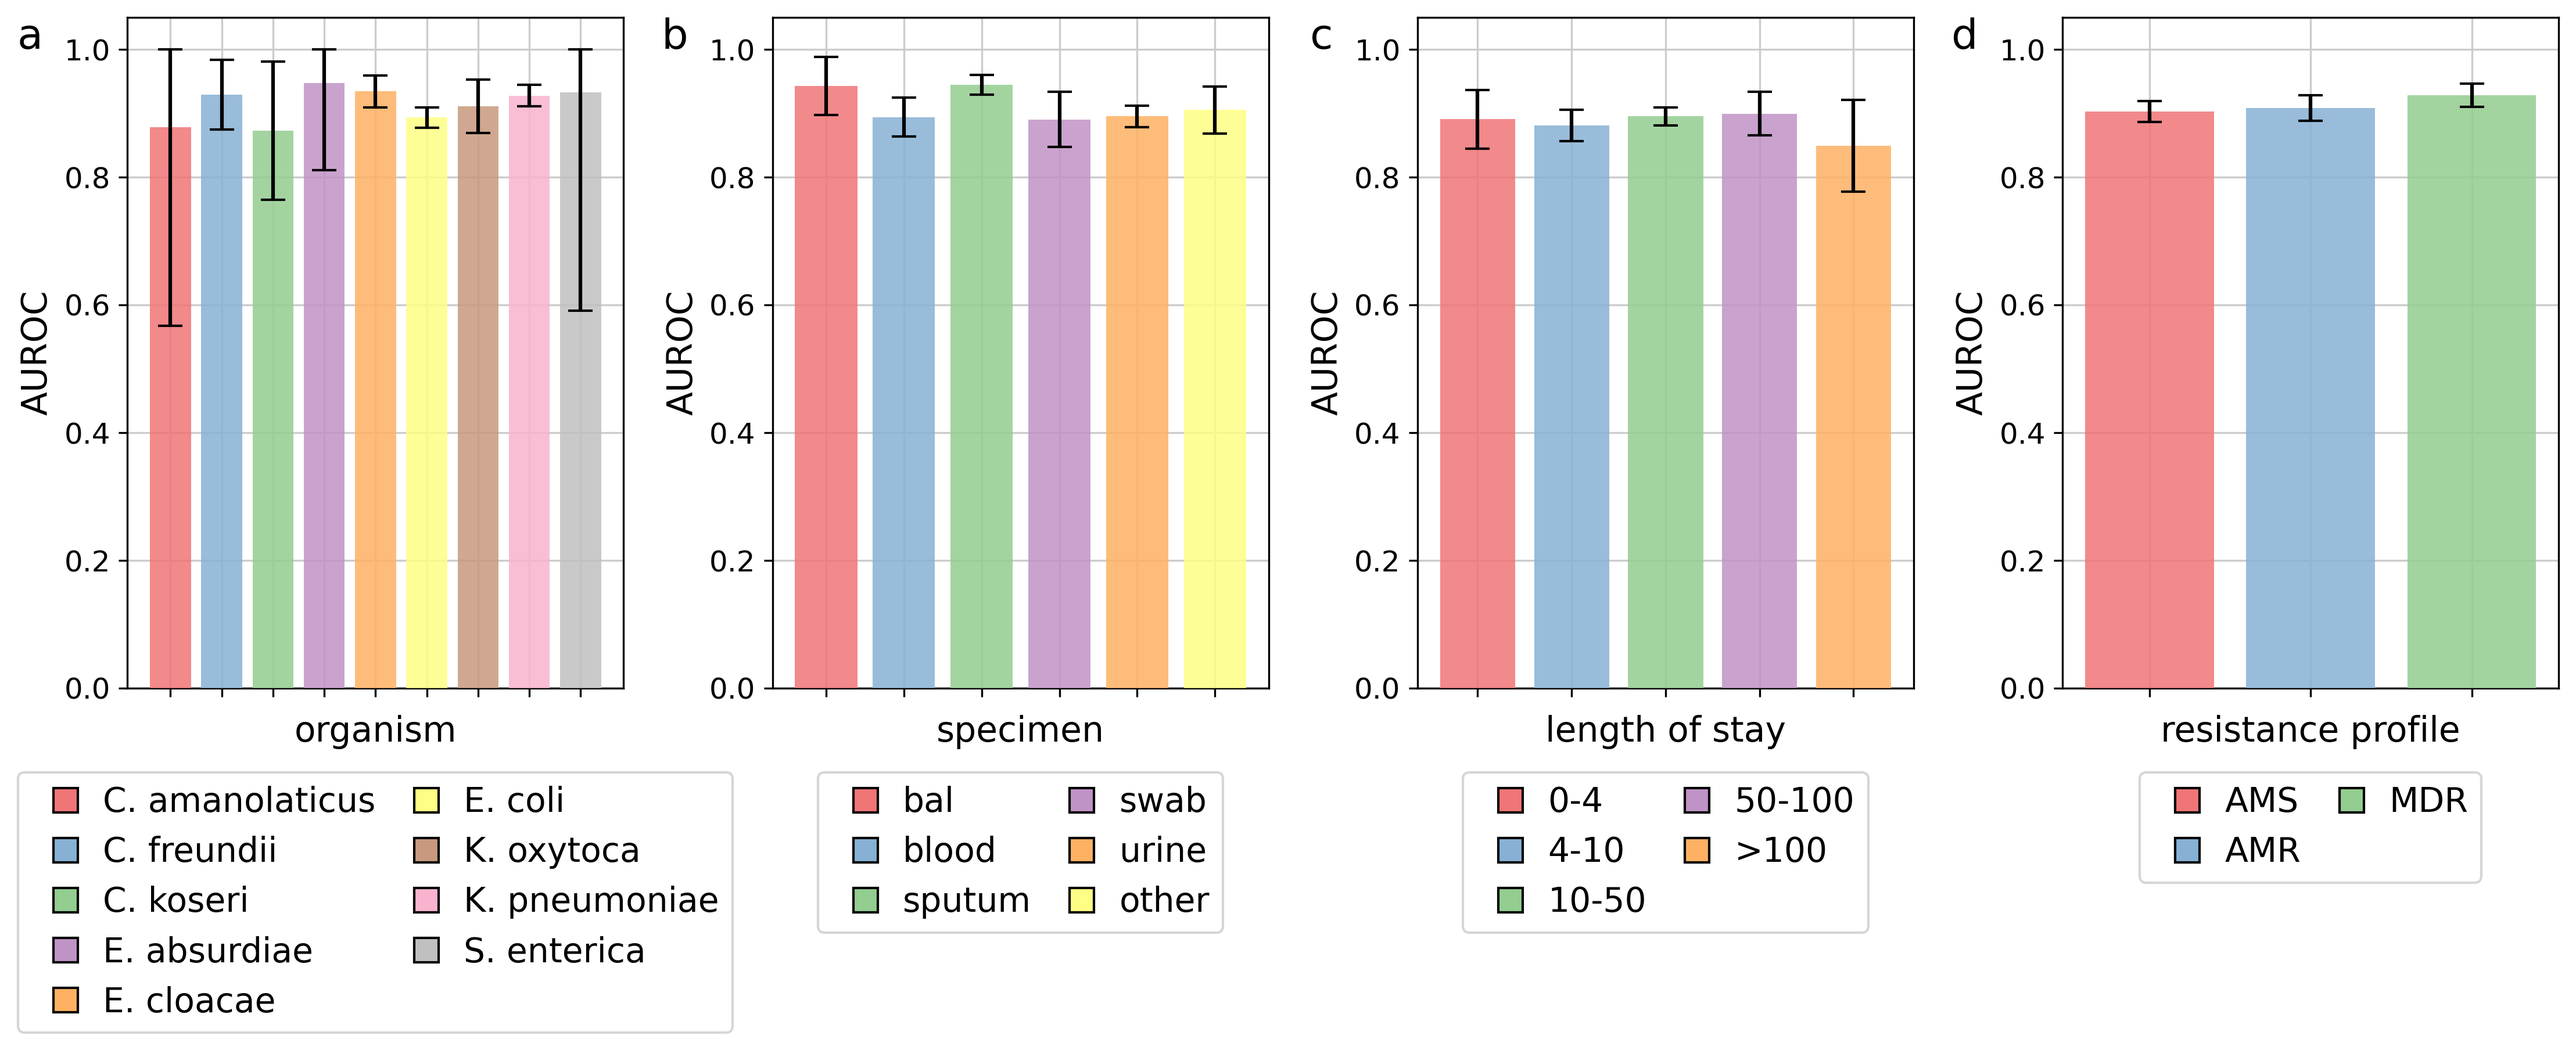
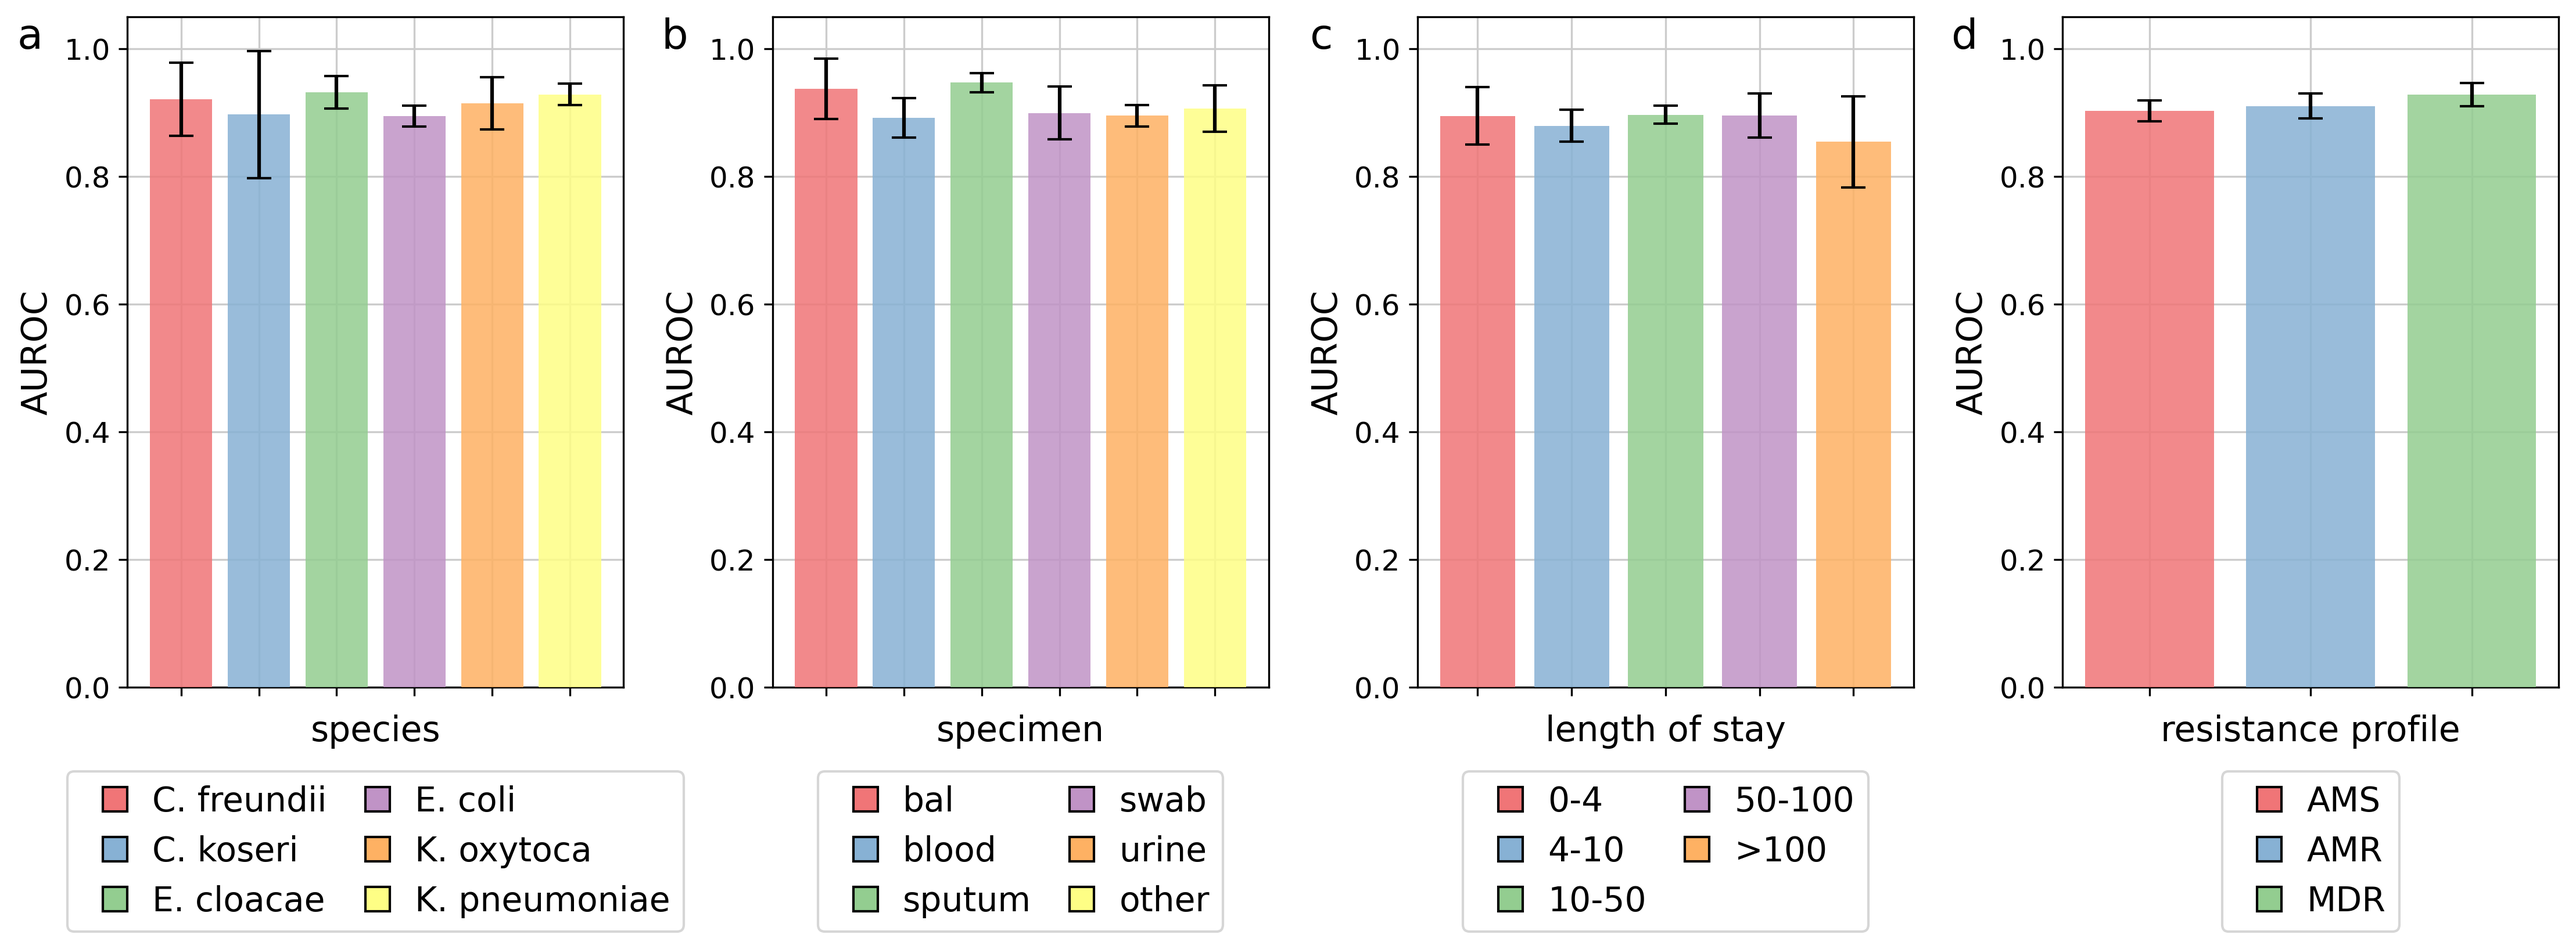
updated results with more flexibility

diff --git a/results/analysis_by_category.py b/results/analysis_by_category.py
@@ -1,23 +1,23 @@
 import os
 import sys
 sys.path.append(os.path.abspath('.'))
+import csv
 import json
 import numpy as np
 import pandas as pd
 import matplotlib.pyplot as plt
 import matplotlib.lines as mlines
+from sklearn.metrics import roc_auc_score
 from data.data_utils import load_features_and_labels
 from run_gnn import IPCDataset, evaluate_model, get_ckpt_dir, load_best_params
 from run_utils import auroc_ci
 
 
+SETTING_CONDS = ['inductive', 'transductive', 'ensemble']
 MODEL_RUN = {
-    'setting_cond': 'ensemble',  # ensemble, inductive, transductive
     'balanced_cond': 'non',  # only relevant with setting_cond = in/trans-ductive
     'link_cond': 'wards',  # only relevant with setting_cond = in/trans-ductive
 }
-FIGURE_FILE = 'figure_4_%s.png' % MODEL_RUN['setting_cond']
-OUTPUT_PATH = os.path.join('results', 'figures', FIGURE_FILE)
 BAR_PLOT_COLORS = [
     (0.627, 0.306, 0.310),
     (0.353, 0.463, 0.553),
@@ -32,10 +32,8 @@ BAR_PLOT_COLORS = [
 BAR_PLOT_COLORS = [tuple([a * 1.5 for a in c]) for c in BAR_PLOT_COLORS]
 CAT_CONDS = {
     'ORG_NAME': {
-        'C. amanolaticus': lambda x: x == 'CITROBACTER AMALONATICUS',
         'C. freundii': lambda x: x == 'CITROBACTER FREUNDII COMPLEX',
         'C. koseri': lambda x: x == 'CITROBACTER KOSERI',
-        'E. absurdiae': lambda x: x == 'ENTEROBACTER ASBURIAE',
         'E. cloacae': lambda x: x in [
             'ENTEROBACTER CLOACAE',
             'ENTEROBACTER CLOACAE COMPLEX',
@@ -43,13 +41,15 @@ CAT_CONDS = {
         'E. coli': lambda x: x == 'ESCHERICHIA COLI',
         'K. oxytoca': lambda x: x == 'KLEBSIELLA OXYTOCA',
         'K. pneumoniae': lambda x: x == 'KLEBSIELLA PNEUMONIAE',
-        'S. enterica': lambda x: x in [
-            'SALMONELLA DUBLIN',
-            'SALMONELLA ENTERITIDIS',
-            'SALMONELLA DUBLIN',
-            'SALMONELLA ENTERITIDIS',
-            'SALMONELLA HADAR',
-        ],
+        # 'C. amanolaticus': lambda x: x == 'CITROBACTER AMALONATICUS',
+        # 'E. absurdiae': lambda x: x == 'ENTEROBACTER ASBURIAE',
+        # 'S. enterica': lambda x: x in [
+        #     'SALMONELLA DUBLIN',
+        #     'SALMONELLA ENTERITIDIS',
+        #     'SALMONELLA DUBLIN',
+        #     'SALMONELLA ENTERITIDIS',
+        #     'SALMONELLA HADAR',
+        # ],
         # 'C. youngae': lambda x: x == 'CITROBACTER YOUNGAE',
         # 'E. fergunosi': lambda x: x == 'ESCHERICHIA FERGUSONII',
         # 'R. ornithinolytica': lambda x: x == 'RAOULTELLA ORNITHINOLYTICA',
@@ -103,7 +103,7 @@ CAT_CONDS = {
     },
 }
 CAT_TITLES = {
-    'ORG_NAME': {'label': 'organism', 'letter': 'a'},
+    'ORG_NAME': {'label': 'species', 'letter': 'a'},
     'SPEC_TYPE_DESC': {'label': 'specimen', 'letter': 'b'},
     'LOSH': {'label': 'length of stay', 'letter': 'c'},
     'MDR_STATUS': {'label': 'resistance profile', 'letter': 'd'},
@@ -114,45 +114,55 @@ def main():
     """ Train best model in the best setting, data balance, and link condition,
         then check performance for different MDR categories
     """
-    # Initialize dataset and model hyper-parameters, given conditions
-    if 'ensemble' in MODEL_RUN['setting_cond']:
-        log_dir = os.path.join('models', 'all')
-    else:
-        dataset = IPCDataset(**MODEL_RUN)
-        log_dir = get_ckpt_dir(MODEL_RUN)
-        params = load_best_params(log_dir)
+    # Loop through different setting conditions
+    for setting_cond in SETTING_CONDS:
+        MODEL_RUN.update({'setting_cond': setting_cond})
+        figure_file = 'figure_4_%s.png' % setting_cond
+        table_file = 'table_figure_4_%s.csv' % setting_cond
+        figure_path = os.path.join('results', 'figures', figure_file)
+        table_path = os.path.join('results', 'tables', table_file)
+        
+        # Initialize dataset and model hyper-parameters, given conditions
+        if 'ensemble' in MODEL_RUN['setting_cond']:
+            log_dir = os.path.join('models', 'all')
+        else:
+            dataset = IPCDataset(**MODEL_RUN)
+            log_dir = get_ckpt_dir(MODEL_RUN)
+            params = load_best_params(log_dir)
+        
+        # Retrieve relevant data info (by sample index)
+        _, _, ids = load_features_and_labels(balanced=MODEL_RUN['balanced_cond'])
+        data_path = os.path.join('data', 'processed', 'patient-ward_info.csv')
+        test_info = pd.read_csv(data_path).loc[ids['test']]
+        
+        # Generate predictions and plot them for different set of categories
+        if 'ensemble' in MODEL_RUN['setting_cond']:
+            report_file = 'ensemble_average_report.json'
+            report_path = os.path.join(log_dir, report_file)
+            with open(report_path, 'r') as f: report = json.load(f)
+            y_score = np.array(report['y_score_optim'])
+        else:
+            metrics = evaluate_model(
+                dataset, params, MODEL_RUN['setting_cond'], log_dir)
+            y_score = metrics['y_score']
+        plot_results_by_category(test_info, y_score, table_path, figure_path)
     
-    # Retrieve relevant data info (by sample index)
-    _, _, ids = load_features_and_labels(balanced=MODEL_RUN['balanced_cond'])
-    data_dir = os.path.join('data', 'processed')
-    sample_info = pd.read_csv(os.path.join(data_dir, 'patient-ward_info.csv'))
-    test_info = sample_info.loc[ids['test']]
     
-    # Generate predictions and plot them for different set of categories
-    if 'ensemble' in MODEL_RUN['setting_cond']:
-        report_file = 'ensemble_average_report.json'
-        report_path = os.path.join(log_dir, report_file)
-        with open(report_path, 'r') as f: report = json.load(f)
-        y_score = np.array(report['y_score_optim'])
-    else:
-        metrics = evaluate_model(
-            dataset, params, MODEL_RUN['setting_cond'], log_dir)
-        y_score = metrics['y_score']
-    plot_results_by_category(test_info, y_score)
-    
-    
-def plot_results_by_category(test_info, y_score):
+def plot_results_by_category(test_info, y_score, table_path, figure_path):
     """ Compute performance for different sets of categories and show the results
         on several bar plots
     """
     # Gather test results and plot them for each set of categories
+    if os.path.isfile(table_path): os.remove(table_path)  # reset data file
     _, axs = plt.subplots(1, len(CAT_CONDS), figsize=(len(CAT_CONDS) * 4.5, 5))
     for i, (cond_key, cond_dict) in enumerate(CAT_CONDS.items()):
         
-        # Compute metrics for this category
-        aurocs, auroc_lows, auroc_highs = compute_metrics(
+        # Compute metrics for this category and record them in a table
+        aurocs, auroc_lows, auroc_highs, ns, auroc_all = compute_metrics(
             test_info, y_score, cond_key, cond_dict
         )
+        write_table(
+            table_path, cond_key, list(cond_dict.keys()), aurocs, ns, auroc_all)
         
         # Show results as a bar plot
         cats = list(cond_dict.keys())
@@ -163,6 +173,7 @@ def plot_results_by_category(test_info, y_score):
         )
         
         # Polish figure
+        ncol = 1 if cond_key == 'MDR_STATUS' else 2
         axs[i].set_ylabel('AUROC', fontsize='x-large')
         axs[i].set_xlabel(CAT_TITLES[cond_key]['label'], fontsize='x-large')
         axs[i].set_ylim([0.0, 1.05])
@@ -175,13 +186,13 @@ def plot_results_by_category(test_info, y_score):
             markersize=10, markeredgecolor='black') for i, _ in enumerate(cats)]
         axs[i].text(-0.17, 1.0, CAT_TITLES[cond_key]['letter'], va='top',
                     ha='right', fontsize='xx-large', transform=axs[i].transAxes)
-        axs[i].legend(handles, cats, fontsize=14, ncol=2, loc='upper center',
+        axs[i].legend(handles, cats, fontsize=14, ncol=ncol, loc='upper center',
                       bbox_to_anchor=(0.5, -0.1, 0.0, 0.0), columnspacing=0.5,
                       handletextpad=0.1)
         
     # Save figure
     plt.subplots_adjust(wspace=0.3)
-    plt.savefig(OUTPUT_PATH, dpi=300, bbox_inches='tight')
+    plt.savefig(figure_path, dpi=300, bbox_inches='tight')
     
     
 def compute_metrics(test_info, y_score, cond_key, cond_dict):
@@ -196,7 +207,8 @@ def compute_metrics(test_info, y_score, cond_key, cond_dict):
     y_score_neg = y_score[test_label_info == 0]
     
     # Go through all condition of the condition set defined by cond_dict
-    aurocs, auroc_lows, auroc_highs = [], [], []
+    aurocs, auroc_lows, auroc_highs, ns = [], [], [], []
+    y_true_all_check, y_score_all_check = [], []
     for _, cat_cond in cond_dict.items():
         
         # Retrieve positive and negative samples to check, taking into account
@@ -220,10 +232,34 @@ def compute_metrics(test_info, y_score, cond_key, cond_dict):
         aurocs.append(auroc)
         auroc_lows.append(auroc - max(0.5, auroc_low))
         auroc_highs.append(min(1.0, auroc_high) - auroc)
+        ns.append(len(y_score_pos_cat))
+        y_true_all_check.extend(y_true_check)
+        y_score_all_check.extend(y_score_check)
     
-    # Return results
-    return aurocs, auroc_lows, auroc_highs
-    
+    # Compute overall auroc and return results
+    auroc_all = roc_auc_score(y_true_all_check, y_score_all_check)
+    return aurocs, auroc_lows, auroc_highs, ns, auroc_all
+
+
+def write_table(table_path: str,
+                model_key: str,
+                titles: list[str],
+                aurocs: list[float],
+                ns: list[int],
+                auroc_all: float
+                ) -> None:
+    """" Record the auroc results for reporting in the manuscript
+    """
+    with open(table_path, 'a') as csv_file:
+        writer = csv.writer(csv_file)
+        zipped = zip(
+            list(titles) + [model_key],
+            aurocs + [auroc_all],
+            ns + [sum(ns)]
+        )
+        for title, auroc, n in zipped:
+            writer.writerow([model_key, title, auroc, n])
+            
 
 if __name__ == '__main__':
     main()

diff --git a/results/analysis_models_single.py b/results/analysis_models_single.py
@@ -4,8 +4,6 @@ import json
 
 
 OUTPUT_BASE_PATH = os.path.join('results', 'tables', 'table')
-USE_OPTIMAL_THRESHOLD = False  # if False, use results with threshold = 0.5
-OPTIM_STR = '_optim' if USE_OPTIMAL_THRESHOLD else ''
 ALL_SETTING_CONDS = ['inductive', 'transductive']
 ALL_BALANCED_CONDS = ['under', 'non', 'over']
 ALL_LINK_CONDS = [
@@ -80,15 +78,17 @@ CONDS_TABLE_3 = [
 
 def main():
     os.makedirs(os.path.split(OUTPUT_BASE_PATH)[0], exist_ok=True)
-    raw_table_path = '%s%s_raw.csv' % (OUTPUT_BASE_PATH, OPTIM_STR)
-    table_2_path = '%s%s_2.csv' % (OUTPUT_BASE_PATH, OPTIM_STR)
-    table_3_path = '%s%s_3.csv' % (OUTPUT_BASE_PATH, OPTIM_STR)
-    compute_raw_results(raw_table_path)
-    write_spec_table(raw_table_path, table_2_path, CONDS_TABLE_2)
-    write_spec_table(raw_table_path, table_3_path, CONDS_TABLE_3)
+    for use_optim_threshold in [True, False]:
+        optim_str = '_optim' if use_optim_threshold else ''
+        raw_table_path = '%s%s_raw.csv' % (OUTPUT_BASE_PATH, optim_str)
+        table_2_path = '%s%s_2.csv' % (OUTPUT_BASE_PATH, optim_str)
+        table_3_path = '%s%s_3.csv' % (OUTPUT_BASE_PATH, optim_str)
+        compute_raw_results(raw_table_path, use_optim_threshold)
+        write_spec_table(raw_table_path, table_2_path, CONDS_TABLE_2)
+        write_spec_table(raw_table_path, table_3_path, CONDS_TABLE_3)
     
     
-def compute_raw_results(raw_table_path):
+def compute_raw_results(raw_table_path, use_optim_threshold):
     """ Check in the logs of all trained models and write a table with all the
         results for all different conditions for all models
     """
@@ -98,7 +98,9 @@ def compute_raw_results(raw_table_path):
         ckpt_dir = os.path.join('models', 'controls', 'node_features')
         for model_name in ALL_CONTROL_MODELS:
             try:
-                model_row = get_model_row(ckpt_dir, model_name, balanced_cond)
+                model_row = get_model_row(
+                    ckpt_dir, model_name, use_optim_threshold,
+                    balanced_cond=balanced_cond)
                 dicts_to_write.append(model_row)
             except:
                 pass
@@ -111,7 +113,8 @@ def compute_raw_results(raw_table_path):
                 for model_name in ALL_CONTROL_MODELS:
                     try:
                         model_row = get_model_row(ckpt_dir, model_name,
-                            balanced_cond, setting_cond, link_cond)
+                            use_optim_threshold, balanced_cond=balanced_cond,
+                            setting_cond=setting_cond, link_cond=link_cond)
                         dicts_to_write.append(model_row)
                     except:
                         pass
@@ -124,8 +127,9 @@ def compute_raw_results(raw_table_path):
                 ckpt_dir = os.path.join('models', model_name)
                 try:
                     model_row = get_model_row(
-                        ckpt_dir, model_name,
-                        balanced_cond, setting_cond, link_cond)
+                        ckpt_dir, model_name, use_optim_threshold,
+                        balanced_cond=balanced_cond, setting_cond=setting_cond,
+                        link_cond=link_cond)
                     dicts_to_write.append(model_row)
                 except:
                     pass
@@ -133,7 +137,7 @@ def compute_raw_results(raw_table_path):
     # Finally, check ensemble model (all)
     ckpt_dir = os.path.join('models', 'all')
     model_name = 'ensemble_average'
-    model_row = get_model_row(ckpt_dir, 'ensemble_average')
+    model_row = get_model_row(ckpt_dir, 'ensemble_average', use_optim_threshold)
     dicts_to_write.append(model_row)
     
     # Build final table
@@ -142,6 +146,7 @@ def compute_raw_results(raw_table_path):
 
 def get_model_row(ckpt_dir: str,
                   model_name: str,
+                  use_optim_threshold: bool,
                   balanced_cond: str='-',
                   setting_cond: str='-',
                   link_cond: str='-',
@@ -162,8 +167,8 @@ def get_model_row(ckpt_dir: str,
     if 'ensemble' in model_name: model_name = 'all_%s' % model_name
     
     # Return a dict formatted for a table ({column_name: metric value})
-    accuracy_key = 'accuracy_optim' if USE_OPTIMAL_THRESHOLD else 'accuracy'
-    macro_avg_key = 'macro avg_optim' if USE_OPTIMAL_THRESHOLD else 'macro avg'
+    accuracy_key = 'accuracy_optim' if use_optim_threshold else 'accuracy'
+    macro_avg_key = 'macro avg_optim' if use_optim_threshold else 'macro avg'
     to_return = {
         'Model': model_name,
         'Balanced': balanced_cond,
